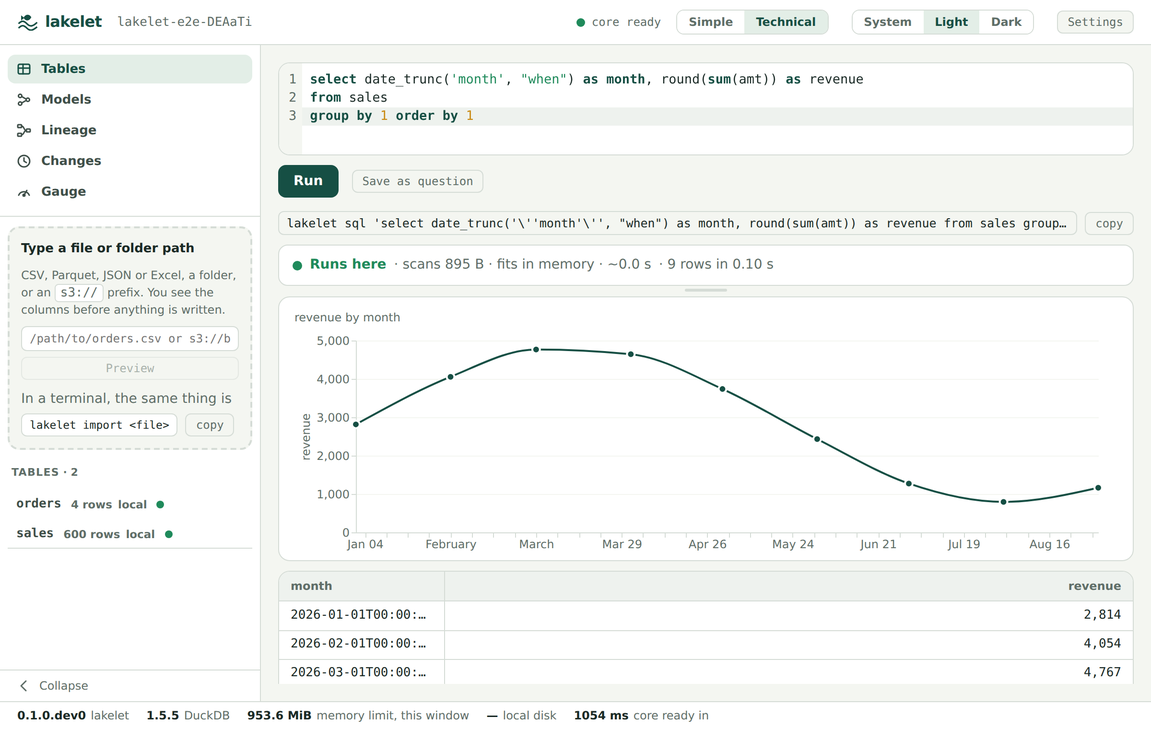
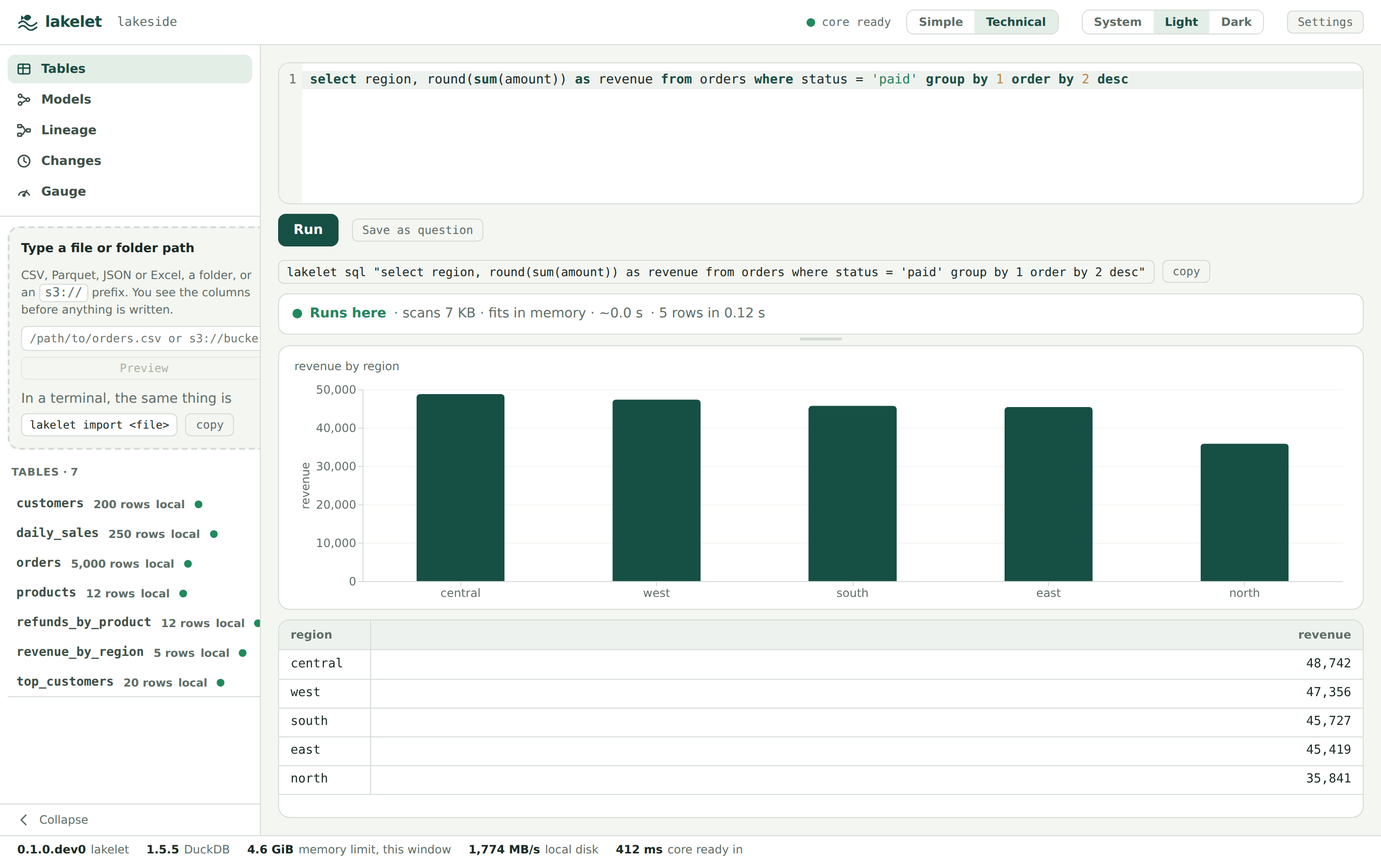
New screenshots for the site, the README and the app guide
Ten captures of the real app in its browser harness against a real core,
on the generated sample data, at 2x: the workspace light and dark, a line
chart, a table detail, Questions with See the answer and the answer,
Models, Lineage, Changes and Gauge. app/scripts/screenshots.mjs is the
recipe. The landing page and the explore/product page use the workspace
capture (the September 16 one is retired), /app has a five-screen gallery,
/docs/app a figure per screen, and the README hero is retaken. Markdown
image paths get the base path like links do.

Also: the grid was one pixel short for a ten-character date and cut it to
an ellipsis; the column padding allows for the border now.

diff --git a/web/src/styles/website.css b/web/src/styles/website.css
@@ -7,6 +7,8 @@
 .website .story-hero{padding-top:85px;padding-bottom:55px}.website .story-hero h1{font-size:clamp(64px,8.4vw,122px);margin:32px 0 40px;max-width:100%}.website .story-hero .hero-location{display:inline-block;color:inherit}.home-intro{display:flex;align-items:center;justify-content:space-between;gap:35px}.home-copy{max-width:660px}.home-copy>p{color:var(--muted);font-size:18px;line-height:1.7}.home-copy .home-foundations{font-size:13px;color:var(--ink);margin-top:20px}.home-intro .small-note{margin-top:14px}.website .scroll-cue{font-size:10px;margin-top:56px}.website .experiment-top h2{font-size:30px;letter-spacing:-1px}.website .experiment-note{font-size:12px;max-width:100%;line-height:1.8}.website .query-choice b{font-size:15px}.website .query-choice small{font-size:12px}.website .experiment-readout{min-width:0}.website .sql-strip{font-size:12px}.website .dataset-tag{font-size:10px}.website .bandwidth-control label{font-size:13px}.website .readout-explanation{font-size:13px}.website .readout-number{font-variant-numeric:tabular-nums}.website .transfer-result>p{font-size:13px}.website .transfer-result output{font-variant-numeric:tabular-nums}
 
 .web-section{padding-top:100px;padding-bottom:100px;border-bottom:1px solid var(--line)}.feature-columns{display:grid;grid-template-columns:repeat(3,minmax(0,1fr));gap:55px}.feature-columns .index{display:block;font:11px var(--mono);letter-spacing:.04em;color:var(--accent);margin-bottom:28px}.feature-columns h3{font-size:26px;font-weight:500;margin-bottom:20px}.feature-columns p{font-size:15px;color:var(--muted);margin-bottom:25px;line-height:1.85}.feature-columns a{margin-top:7px}.app-capture{border:1px solid var(--line);background:var(--panel);border-radius:6px;overflow:hidden}.capture-bar{padding:17px 23px;display:flex;align-items:center;justify-content:space-between;gap:15px;font:10px var(--mono);color:var(--muted)}.capture-bar>span:first-child{display:flex;gap:7px}.capture-bar i{width:7px;height:7px;border-radius:50%;background:var(--muted)}.app-capture img{width:100%;height:auto}.app-capture figcaption{font:11px/1.7 var(--mono);color:var(--muted);padding:18px 23px;border-top:1px solid var(--line)}
+.screen-gallery{display:grid;grid-template-columns:repeat(2,minmax(0,1fr));gap:40px 30px;margin-top:50px}.screen-gallery figure{margin:0}.screen-gallery img{width:100%;height:auto;border:1px solid var(--line);border-radius:6px;background:var(--panel)}.screen-gallery figcaption{font:11px/1.7 var(--mono);color:var(--muted);padding:12px 2px 0}
+.website .body img{display:block;width:100%;height:auto;border:1px solid var(--line);border-radius:6px;background:var(--panel);margin:22px 0 6px}.website .body p>a>img{margin-bottom:0}.website .body img+em,.website .body p>em:only-child{display:block;font:11px/1.7 var(--mono);color:var(--muted)}
 .split-section{display:grid;grid-template-columns:1fr 1.12fr;gap:90px;align-items:start;padding-top:100px;padding-bottom:100px;border-bottom:1px solid var(--line)}.split-section h2{margin:23px 0 27px}.split-section>div>p:not(.eyebrow){font-size:16px;color:var(--muted);max-width:480px;margin-bottom:27px;line-height:1.8}.folder-map{border:1px solid var(--line);background:var(--panel);padding:28px 30px;font:13px var(--mono)}.folder-map>div{display:flex;justify-content:space-between;gap:15px;padding-bottom:25px;color:var(--accent)}.folder-map>div span{font-size:9px;color:var(--muted)}.folder-map ul{list-style:none;padding:0;margin:0}.folder-map li{display:flex;justify-content:space-between;gap:20px;border-top:1px solid var(--line);padding:20px 0;font-size:12px}.folder-map li b{font-weight:400}.folder-map li span{color:var(--muted);text-align:right}.folder-map>p{border-top:1px solid var(--line);padding-top:20px;font:11px/1.8 var(--sans);color:var(--muted)}
 .current-state{padding-top:100px;padding-bottom:100px;border-bottom:1px solid var(--line)}.state-grid{display:grid;grid-template-columns:1fr 1fr;gap:60px}.state-grid h3{font:14px var(--mono);margin:0 0 30px}.state-grid ul{list-style:none;padding:0;margin:0}.state-grid li{border-top:1px solid var(--line);padding:18px 0;font-size:14px;display:flex;align-items:center;justify-content:space-between;gap:20px}.state-grid li a{display:flex;justify-content:space-between;gap:20px;width:100%}.state-grid li small{font:10px var(--mono);color:var(--muted);white-space:nowrap}.state-grid li a>span:last-child{color:var(--accent)}
 .next-step{padding:85px 0 95px;display:flex;align-items:center;justify-content:space-between;gap:40px}.next-step h2{font-size:clamp(35px,4vw,57px);margin:18px 0;color:var(--accent)}.next-step p:not(.eyebrow){font-size:14px;color:var(--muted)}.next-step .button{flex-shrink:0}.web-footer{padding:45px 0 25px;border-top:1px solid var(--line)}.footer-top{display:grid;grid-template-columns:2fr 1fr 1fr;gap:40px;padding:10px 0 55px}.footer-top p{font-size:14px;color:var(--muted);margin-top:24px}.footer-top nav{display:grid;align-content:start;gap:14px;font-size:13px;color:var(--muted)}.footer-bottom{border-top:1px solid var(--line);padding-top:25px;display:flex;justify-content:space-between;gap:20px;font:10px/1.7 var(--mono);color:var(--muted)}
@@ -22,6 +24,6 @@
 @media(min-width:1101px){.docs-menu>summary{display:none}}
 @media(max-width:1200px){.desktop-nav{gap:15px;font-size:12px}.web-header{gap:20px}.feature-columns{gap:30px}.split-section{gap:45px}.price-card{padding:25px}.price-card .eyebrow{font-size:8px}}
 @media(max-width:1100px){.desktop-nav{display:none}.mobile-menu{display:block}.mobile-menu>summary{list-style:none;display:flex;align-items:center;gap:16px;cursor:pointer;padding:13px 0;font-size:13px}.mobile-menu>summary::-webkit-details-marker{display:none}.mobile-menu[open]>summary>span{transform:rotate(45deg)}.mobile-menu nav{position:absolute;left:0;right:0;top:100%;background:var(--term2);box-shadow:0 15px 25px rgba(0,0,0,.2);border:1px solid var(--line);padding:20px;display:grid;grid-template-columns:1fr 1fr;gap:10px 25px}.mobile-menu nav a{padding:12px 6px;font-size:14px}.mobile-menu nav a[aria-current]{color:var(--accent)}.web-header .header-cta{margin-left:auto}.web-header .wordmark{margin-right:0}.intro-bottom{gap:35px}.intro-actions{max-width:270px}.verdict-grid{grid-template-columns:repeat(2,minmax(0,1fr));gap:40px}.verdict-grid h3{min-height:0}.website .docs{grid-template-columns:190px minmax(0,1fr);gap:30px}.website .docs .group a{font-size:12px}.pricing-grid{gap:12px}.price.compact{font-size:34px}}
-@media(max-width:800px){.web-header{min-height:90px}.website .story-hero{padding-top:55px}.website .story-hero h1{font-size:76px;letter-spacing:-4px}.home-intro{align-items:flex-start;flex-direction:column;gap:26px}.home-copy>p{font-size:16px}.website .scroll-cue{margin-top:38px}.feature-columns{grid-template-columns:1fr;gap:40px}.feature-columns article{border-top:1px solid var(--line);padding-top:30px}.feature-columns .index{margin-bottom:20px}.feature-columns h3{font-size:27px}.web-section,.current-state{padding-top:65px;padding-bottom:65px}.split-section{grid-template-columns:1fr;gap:35px;padding-top:65px;padding-bottom:65px}.state-grid{gap:30px}.next-step{align-items:flex-start;flex-direction:column;padding:65px 0;gap:30px}.footer-top{grid-template-columns:1.5fr 1fr 1fr;gap:25px}.footer-bottom{flex-direction:column;gap:12px}.page-intro{padding-top:55px;padding-bottom:55px}.page-intro h1{font-size:67px;letter-spacing:-3px}.intro-bottom{flex-direction:column;align-items:flex-start}.intro-actions{max-width:none}.intro-bottom>p{font-size:16px}.pipeline>div{padding:23px 17px;min-height:165px}.pipeline span{font-size:8px}.pipeline strong{font-size:22px}.pipeline p{font-size:11px}.pipeline{grid-template-columns:1fr 28px 1fr 28px 1fr}.pipeline-foundation{flex-direction:column;align-items:flex-start;gap:15px}.workflow-layers article{padding:25px}.workflow-layers h2{font-size:26px}.workflow-layers p{min-height:125px;font-size:13px}.workflow-layers code{font-size:11px}.agent-surface{grid-template-columns:1fr;gap:40px}.pricing-grid{grid-template-columns:1fr;gap:25px}.price-card{padding:30px}.price-card .eyebrow{font-size:10px}.price{min-height:0}.price.compact{font-size:44px;padding:0}.price-card>p:not(.eyebrow){min-height:0}.price-card h2{margin-top:25px}.website .docs{grid-template-columns:minmax(0,1fr);gap:30px}.website .docs aside{position:static;border-top:1px solid var(--line);border-bottom:1px solid var(--line)}.docs-menu>summary{padding:18px 0}.website .docs nav{display:grid;grid-template-columns:1fr 1fr;gap:15px}.website .docs .group a{display:block;font-size:13px}.website .docs-preview{margin-top:25px;margin-bottom:25px}.website .docs article h1{font-size:44px}}
+@media(max-width:800px){.screen-gallery{grid-template-columns:1fr}.web-header{min-height:90px}.website .story-hero{padding-top:55px}.website .story-hero h1{font-size:76px;letter-spacing:-4px}.home-intro{align-items:flex-start;flex-direction:column;gap:26px}.home-copy>p{font-size:16px}.website .scroll-cue{margin-top:38px}.feature-columns{grid-template-columns:1fr;gap:40px}.feature-columns article{border-top:1px solid var(--line);padding-top:30px}.feature-columns .index{margin-bottom:20px}.feature-columns h3{font-size:27px}.web-section,.current-state{padding-top:65px;padding-bottom:65px}.split-section{grid-template-columns:1fr;gap:35px;padding-top:65px;padding-bottom:65px}.state-grid{gap:30px}.next-step{align-items:flex-start;flex-direction:column;padding:65px 0;gap:30px}.footer-top{grid-template-columns:1.5fr 1fr 1fr;gap:25px}.footer-bottom{flex-direction:column;gap:12px}.page-intro{padding-top:55px;padding-bottom:55px}.page-intro h1{font-size:67px;letter-spacing:-3px}.intro-bottom{flex-direction:column;align-items:flex-start}.intro-actions{max-width:none}.intro-bottom>p{font-size:16px}.pipeline>div{padding:23px 17px;min-height:165px}.pipeline span{font-size:8px}.pipeline strong{font-size:22px}.pipeline p{font-size:11px}.pipeline{grid-template-columns:1fr 28px 1fr 28px 1fr}.pipeline-foundation{flex-direction:column;align-items:flex-start;gap:15px}.workflow-layers article{padding:25px}.workflow-layers h2{font-size:26px}.workflow-layers p{min-height:125px;font-size:13px}.workflow-layers code{font-size:11px}.agent-surface{grid-template-columns:1fr;gap:40px}.pricing-grid{grid-template-columns:1fr;gap:25px}.price-card{padding:30px}.price-card .eyebrow{font-size:10px}.price{min-height:0}.price.compact{font-size:44px;padding:0}.price-card>p:not(.eyebrow){min-height:0}.price-card h2{margin-top:25px}.website .docs{grid-template-columns:minmax(0,1fr);gap:30px}.website .docs aside{position:static;border-top:1px solid var(--line);border-bottom:1px solid var(--line)}.docs-menu>summary{padding:18px 0}.website .docs nav{display:grid;grid-template-columns:1fr 1fr;gap:15px}.website .docs .group a{display:block;font-size:13px}.website .docs-preview{margin-top:25px;margin-bottom:25px}.website .docs article h1{font-size:44px}}
 @media(max-width:520px){.website .section-frame{width:calc(100% - 40px)}.web-header{gap:20px;flex-wrap:wrap;min-height:82px}.web-header .wordmark{font-size:25px;gap:6px}.web-header .wordmark svg{width:28px}.website .header-cta{padding:10px 13px;min-height:37px;font-size:11px;gap:8px}.mobile-menu>summary{font-size:11px;gap:10px}.website .story-hero{padding-top:43px;padding-bottom:40px}.website .story-hero h1{font-size:clamp(44px,13vw,60px);letter-spacing:-.05em;margin-top:28px;margin-bottom:30px}.website .story-hero>.eyebrow{font-size:9px;max-width:310px}.home-copy>p{font-size:15px}.desktop-break{display:none}.website .scroll-cue{font-size:8px;gap:20px}.website .experiment{padding:23px 18px}.website .experiment-top h2{font-size:25px}.website .experiment-note{font-size:11px}.website .experiment-top .eyebrow{font-size:9px}.website .dataset-tag{font-size:8px}.website .query-choice b{font-size:13px}.website .query-choice small{font-size:11px}.website .section-heading{margin-bottom:30px;gap:25px}.website .section-heading h2,.website h2{font-size:36px;letter-spacing:-1.5px}.website .section-heading>p{font-size:14px}.web-section,.current-state{padding-top:55px;padding-bottom:55px}.feature-columns p{font-size:14px}.capture-bar{font-size:8px;padding:13px 12px}.capture-bar>span:last-child{display:none}.app-capture figcaption{font-size:10px;padding:14px}.split-section{padding-top:55px;padding-bottom:55px}.split-section>div>p:not(.eyebrow){font-size:15px}.folder-map{padding:23px 19px}.folder-map li{font-size:10px;gap:12px}.folder-map>div{font-size:12px}.folder-map>div span{font-size:7px}.state-grid{grid-template-columns:1fr;gap:35px}.state-grid li{font-size:13px}.state-grid li small{font-size:9px}.footer-top{grid-template-columns:1fr 1fr;gap:35px 25px;padding-bottom:40px}.footer-top>div{grid-column:1/-1}.footer-top nav{font-size:12px}.footer-bottom{font-size:9px}.page-intro{padding-top:43px;padding-bottom:40px}.page-intro h1{font-size:49px;letter-spacing:-2.5px;margin:25px 0 28px;overflow-wrap:anywhere}.intro-bottom>p{font-size:15px}.intro-bottom{gap:27px}.step-list article{grid-template-columns:24px 1fr;gap:15px;padding:27px 0}.step-list article>a{grid-column:2;text-align:left}.step-list h3{font-size:24px}.step-list p{font-size:14px}.key-list{padding:6px 18px 22px}.key-list>div{font-size:12px;gap:12px}.key-list kbd{font-size:10px;padding:7px}.pipeline{grid-template-columns:1fr;gap:8px}.pipeline>b{transform:rotate(90deg);font-size:22px}.pipeline>div{min-height:0;padding:25px}.pipeline strong{font-size:29px;margin:15px 0 10px}.pipeline span{font-size:10px}.pipeline p{font-size:12px}.pipeline-foundation{padding:22px}.verdict-grid{grid-template-columns:1fr;gap:32px}.verdict-grid h3{margin:15px 0 12px;font-size:25px}.verdict-grid article>span{font-size:11px}.web-accordions summary{font-size:15px}.notice-band{padding:28px 25px;margin-top:45px;margin-bottom:20px}.notice-band h3{font-size:25px}.notice-band>p:not(.eyebrow){font-size:14px}.workflow-layers{grid-template-columns:1fr}.workflow-layers article{border-right:0;border-bottom:1px solid var(--line);padding:30px}.workflow-layers h2{font-size:31px;margin-top:26px}.workflow-layers p{min-height:0;font-size:14px}.workflow-layers code{font-size:13px;margin-top:25px}.code-window pre{font-size:11px;padding:20px 18px}.code-window>div{font-size:8px;padding:16px 18px}.code-window>a{font-size:11px;padding:18px}.agent-explainer h2{font-size:35px}.price-card{padding:28px}.updates-section{padding:60px 0}.website .docs article h1{font-size:36px;letter-spacing:-1.5px;overflow-wrap:anywhere}.website .docs article .lede{font-size:15px}.website .docs .body{font-size:15px}.website .body h2{font-size:27px;letter-spacing:-.8px}.website .body pre{padding:17px;font-size:11px}.website .docs nav{grid-template-columns:1fr}.website .docs .pager{grid-template-columns:1fr 1fr;gap:20px;font-size:11px}.website .docs .pager .edit{grid-row:2;grid-column:1/-1}.website .docs-preview{font-size:12px}}
 @media(prefers-reduced-motion:reduce){.website,.website *{scroll-behavior:auto!important;transition:none!important}}

diff --git a/app/src/components/Grid.test.tsx b/app/src/components/Grid.test.tsx
@@ -24,8 +24,10 @@ describe('the grid', () => {
 
   it('sizes a column to the longest of its header and its cells, between a floor and a cap', () => {
     const [name, revenue] = columnWidths(columns, rows);
-    expect(name).toBe(Math.ceil('a much longer customer name here'.length * 7.8) + 24);
+    expect(name).toBe(Math.ceil('a much longer customer name here'.length * 7.8) + 28);
     expect(revenue).toBe(96); // "1,234.50" and "revenue" are short: the floor
+    // a date is ten characters; its column shows all ten (it was one pixel short once)
+    expect(columnWidths([{ name: 'day', type: 'Date32' }], [['2026-01-04']])[0]).toBeGreaterThanOrEqual(Math.ceil(10 * 7.83) + 24 + 1);
     expect(columnWidths([{ name: 'x', type: 'Utf8' }], [['y'.repeat(500)]])[0]).toBe(480);
     expect(template([100, 96])).toBe('100px minmax(96px, 1fr)');
   });

diff --git a/app/src/components/Grid.tsx b/app/src/components/Grid.tsx
@@ -31,7 +31,7 @@ const numeric = (type: string) => /^(Int|Uint|Float|Decimal)/.test(type);
  *  header instead of at the far right. The last column takes what is left. */
 export const SAMPLE = 200;
 const CHAR = 7.8; // 13px monospace
-const PAD = 24;
+const PAD = 28; // 12px padding each side, the 1px border, and a little slack: a ten-character date was one pixel short and showed an ellipsis
 export function columnWidths(columns: Column[], rows: Row[]): number[] {
   return columns.map((c, i) => {
     let longest = c.name.length;

diff --git a/web/tests/test_website.py b/web/tests/test_website.py
@@ -100,10 +100,17 @@ def test_signup_has_a_real_endpoint_or_a_useful_fallback():
 def test_screenshot_and_recovery_documentation_are_present():
     for route in ["index", "app"]:
         page = Page(DIST / f"{route}.html")
-        capture = next(i for i in page.elements("img") if "query.png" in i["src"])
+        capture = next(i for i in page.elements("img") if "screenshots/workspace.png" in i["src"])
         assert "generated" in capture["alt"]
         assert "browser test harness" in text(route)
         assert built_file(capture["src"]).stat().st_size > 10000
+    # the /app gallery and the app guide show every screen, from the same captures, under the base path
+    gallery = [i["src"] for i in Page(DIST / "app.html").elements("img") if "/screenshots/" in i["src"]]
+    assert len(gallery) == 5 and all(src.startswith(f"{BASE}/screenshots/") for src in gallery)
+    guide = [i["src"] for i in Page(DIST / "docs" / "app.html").elements("img") if "/screenshots/" in i["src"]]
+    assert len(guide) == 10 and all(src.startswith(f"{BASE}/screenshots/") for src in guide)
+    for src in set(gallery + guide):
+        assert built_file(src).stat().st_size > 10000, src
     assert "project folder" in text("docs/recovery")
     assert "Not estimated" in text("docs/gauge")
     assert any(a.get("href") == f"{BASE}/docs/recovery" for a in Page(DIST / "docs.html").elements("a"))

diff --git a/web/src/content/docs/app.md b/web/src/content/docs/app.md
@@ -30,6 +30,9 @@ The dot in the bar is the core's state: amber while it starts, green when `/api/
 
 With a project open the window is the bar, a sidebar, the screen, and a status strip. The bar has the project's name, the core's dot, **Open…**, the **Simple | Technical** and **System | Light | Dark** switches and **Settings**. The sidebar has the five screens — **Tables**, **Models**, **Lineage**, **Changes**, **Gauge** (⌘/Ctrl+1 to 5; Simple mode says **Questions**, **Map** and **Recent**) — and under them the explorer: the drop zone with **Import…**, then every table and view in the catalog with its rows, where its data is and a freshness dot (green when it was written today, amber this week, grey before that; hover for the time). The explorer is there on every screen, so a table is one click away from anywhere; clicking one opens its detail on the Tables screen. Its right edge drags to the width you want (← and → move it too), and the **Collapse** button at the bottom folds it to icons; both are remembered. The strip along the bottom shows the core's version, DuckDB's, this window's memory limit, the local disk figure and how long the core took to be ready.
 
+[![The window: the bar, the sidebar with the five screens and the explorer, the workspace with SQL over the verdict, the chart and the rows, and the status strip](/screenshots/workspace.png)](/screenshots/workspace.png)
+*The window on the generated sample data: a two-column answer gets a chart. Every screenshot on this page is the real app in its browser harness against a real core, unedited.*
+
 ## The Tables screen: the workspace
 
 The Tables screen is one workspace, two panes with a draggable split (the ↑ and ↓ keys move it too; where you leave it is remembered): the SQL box above with the verdict line under it, the results below. The results pane is where a table's detail or a file's preview opens when the explorer starts one, so "click a table, read its detail, run a query against it" happens on one screen without a scroll; **Run** puts the rows back in their place.
@@ -42,11 +45,17 @@ An `s3://bucket/prefix/` of Parquet typed into the same box is attached rather t
 
 Clicking a table in the explorer opens its detail in the results pane, which is `lakelet tables describe <name>` as a panel: the columns with their Iceberg types, where the data is, partitioning, the format version, every snapshot newest first (when, the operation, rows and files added, rows after, which is current and which the retention would expire), and the line saying what `expire` would reclaim. **Sample rows** is `lakelet tables sample`, **Expire snapshots** is `lakelet tables expire` and shows its report (snapshots and files removed, bytes reclaimed); an attached table has **Refresh** instead, because its files are not Lakelet's to delete. A table built here also has **Publish to a bucket…** (`lakelet tables publish`): type an `s3://bucket/prefix`, **Weigh it** counts the files and says how long the copy would take at the measured bandwidth (`--dry-run`), **Publish** moves the table there with every snapshot, and a copy longer than the Yellow cap is refused with **Publish anyway** (`--yes`) beside the refusal; afterwards the explorer says **bucket**, the detail names the location, and a line counts the local files left for `expire`. Row counts everywhere take position deletes off, so a table rebuilt by delete-then-insert (the dbt path) shows the rows it has, not the rows its files hold.
 
+[![A table's detail in the results pane: where it is, partitioning, last written, format, what reads it and what it feeds, the recent changes, and the columns](/screenshots/detail.png)](/screenshots/detail.png)
+*`orders` in the results pane: `lakelet tables describe orders` as a panel, with the models it feeds as links.*
+
 A view (a dbt `view` model built with `lakelet run`, or a view put in the catalog directly) is listed beside the tables and has its own detail: its query, its columns, how many versions it has and when this one was recorded, which dbt model it came from with the `lakelet run <model>` line that rewrites it, and **Sample rows**. It has no snapshots and nothing to expire, because nothing is stored for it; the rows are computed from its query each time it is asked.
 
 ### SQL, the verdict, the rows
 
 Once the project has a table, the SQL box is the top pane, with the tables and columns for completion. ⌘/Ctrl+Enter runs (or the Run button). The verdict comes back before any row, from the response headers, as the gauge line: Green "Runs here", Yellow "Runs here, slowly", Red "Needs more machine", with the sentence (what it scans, whether it fits in memory, how long). Red is a refusal until **Run anyway**, which is `lakelet sql '…' --run-anyway`. Rows stream into the grid as the core produces them, one 1,000-row batch at a time from the first; the first rows are on screen before the query completes, and the grid keeps 100,000 rows before it says so and names `lakelet sql --format parquet` for the rest. Esc stops a running query wherever the focus is; the core stops the statement at once and history records the run as stopped early.
+
+[![A date and a numeric column, charted as a line over the rows](/screenshots/workspace-line.png)](/screenshots/workspace-line.png)
+*A date and a number: the chart is a line. The line beside Run is the same query as `lakelet sql`.*
 
 A result of exactly two columns, one categorical and one numeric, draws a bar chart above the grid in the results pane, in the rows' order; a date or timestamp and a numeric draws a line; anything else draws nothing. The chart comes from the first 5,000 rows and has at most 40 bars.
 
@@ -58,11 +67,17 @@ Dates, timestamps, times and decimals show as dates, timestamps, times and numbe
 
 **System | Light | Dark** at the right of the bar. The palette is the site's, from one file (`web/src/styles/palette.css`) both read: the deep green on light surfaces, the lime on dark, and the same three verdict colours in either. System is the default and follows the machine, changing with it; Light and Dark override it for that window and are remembered. The switch is there before a project is open, so a dark desktop can be matched at the welcome screen.
 
+[![The same workspace in the dark theme](/screenshots/workspace-dark.png)](/screenshots/workspace-dark.png)
+*The dark theme; the verdicts keep their hues.*
+
 The palette is the site's tokens with a dark set over them, so every screen, the SQL editor and the charts move together; the verdict colours keep their hues in both, because Green, Yellow and Red are the gauge's vocabulary and have to stay recognisable.
 
 ## The Models screen
 
 **Models** in the sidebar is the project's dbt DAG through the gauge, screen 7 of the mockups: `lakelet run --plan` as a panel. The list has every model in dependency order with its kind (`view` or `table`), its state (`fresh`, `edited`, `upstream`, `never`; [the dbt page](/docs/dbt) says what each means), the verdict coloured, the estimate and what it scans, and its last run; the line beside the summary is `lakelet run`. Clicking a model shows its state with why and what changed (the diff of its SQL since the last run, folded to the changed lines with a **whole SQL** toggle, or the commits to the table it reads since; a model it blames is a link), the verdict's sentence, **Reads from** and **Feeds** — table-level [lineage](/docs/tables#lineage), each name a link to that detail, on the Tables screen when it is an imported table or a view put by hand — its tests from `schema.yml` (`not_null(id)`, `unique(id)`, a singular test by its name), its description and file, its compiled SQL, and its last `lakelet run` from history (when, how long, or that it failed). **Run all** is `lakelet run`; **Run this** is `lakelet run <model>`; **Run what changed (n)** is `lakelet run --stale`, lit when anything is not fresh. When anything is, a **Review** section above the DAG lists every out-of-date model in the order the run would build them, each with its reason and its diff or commits, to read through first. A Red model makes the run refuse the whole DAG, as the CLI does, until **Run anyway** (`--run-anyway`). After a run the notice says how many models built in how long and which views landed in the catalog, or that every model was up to date and nothing ran; the explorer and the Gauge screen's run list have the result at once. A `view` model is an Iceberg view in the catalog only when built this way; the reason is on [the dbt page](/docs/dbt).
+
+[![The Models screen in Technical mode: the DAG on the left, a model's detail with its state, verdict, lineage, tests, compiled SQL and versions on the right](/screenshots/models.png)](/screenshots/models.png)
+*Technical mode: a model's detail with its versions. In Simple mode the same models are question cards with **See the answer**.*
 
 The table and view details on the Tables screen carry the same **Reads from** and **Feeds** lines after their facts, and a model not built yet is a link back to the Models screen with it selected.
 
@@ -72,17 +87,32 @@ The plan compiles the project with dbt each time the screen opens, so it takes a
 
 **Lineage** in the sidebar (Simple: **Map**) is `lakelet lineage --all` drawn: every table, view and model as a node in layers left to right — what reads nothing at the left, each node one layer after the deepest thing it reads — and every edge as lineage knows it (a `ref()` in blue, a `source()` or a table named in the SQL in grey, a catalog view's SQL dashed; hover says which). A model is coloured by its state: green-edged when fresh, amber when edited or an input changed, dashed grey when never built; the header counts what is out of date. Clicking a node opens its detail — a model on the Models screen with it selected, a table or a view on the Tables screen. The layout is the app's own (a longest-path layering and rows by what each node reads), drawn as SVG in the theme's colours; a project's graph is tens of nodes, so no graph library is carried.
 
+[![The Lineage screen: tables on the left, the models that read them on the right](/screenshots/lineage.png)](/screenshots/lineage.png)
+*Four imported tables and the three models over them, all fresh.*
+
 ## The Changes screen
 
 **Changes** in the sidebar (Simple: **Recent**) is `lakelet changes` as a list: everything that happened to the project, newest first — a table's snapshot ("orders: append +1,200 rows · made out of date: stg"), a model's or question's last run ("by_customer built in 1.2 s, Green"), a version ("save question: Revenue by customer · Ada Lovelace") — each with when, which source it came from, and a link that opens the table's detail or the model on the Models screen. The **Name** box is the CLI's argument: type a table, view, model or question and the list is only what happened to it, and the line beside it is the command. Simple mode says the same in its words ("orders: 1,200 rows added · 1 question needs refreshing: stg", "by_customer refreshed in 1.2 s", "Revenue by customer saved, a new version"). Every table, view and model detail has a **Recent** strip — its own last five entries — with **All changes** opening this screen filtered to it. Nothing is recorded for the screen: it is read from the catalog, history and git, so it is always what the CLI would print.
+
+[![The Changes screen: runs, snapshots and versions, newest first](/screenshots/changes.png)](/screenshots/changes.png)
+*Runs, snapshots and saved versions in one list; each entry opens its detail.*
 
 ## Simple and Technical
 
 The **Simple | Technical** switch at the right of the bar is screen 8: the same project in two vocabularies, remembered per window. Technical is everything above: model, test, view, the verdict by colour, the command line beside every button. Simple renames the Models screen **Questions** and shows the DAG as cards: a `view` model is a question *answered live*, a `table` model is *saved as a table*; each card has when it was last refreshed, whether it is up to date as a sentence ("Up to date.", "Changed since it was last refreshed.", "Out of date: orders changed 2 h ago.", "Never refreshed.") with the same diff or commits under it, the wait as a sentence ("Ready in about 2 s", "Takes a while: about 4 min", "Too big for this machine right now") instead of a colour, its checks in words (`not_null` on `id` is "id is never empty", `unique` is "id is never repeated", `accepted_values` is "one of the allowed values"), **See the answer** and **Refresh**; the top has **Refresh all** and **Refresh what changed**. **See the answer** is the Tables screen with `select * from <question>` in the box and run — the verdict line, the chart when the answer is two columns, every row in the grid, and `lakelet sql '…'` beside it — and the box is yours to edit from there; a question never refreshed says **Refresh, then see the answer** and does both. The Technical model detail has the same button as **Rows**. The command lines stay, because Simple hides vocabulary, not what the app does. The view detail follows the switch too. The mapping between the two is one small table in the app, pinned by a test, so both screens say the same words.
 
+[![The Questions screen in Simple mode: three cards, each with See the answer, Refresh and History](/screenshots/questions.png)](/screenshots/questions.png)
+*Simple mode: a question is asked and answered in one click.*
+
+[![The answer: the workspace with select star from revenue_by_region run, the verdict, the chart and the rows](/screenshots/answer.png)](/screenshots/answer.png)
+*What **See the answer** opens: the rows, with the SQL there to edit into the next question.*
+
 ## The Gauge screen
 
 **Gauge** in the sidebar is the gauge's record, screen 5 of the mockups: this machine's line (RAM, threads, the memory limit, the disk figure, the bandwidth when a bucket has been read), three tiles (runs recorded; the share of completed local runs within 2× of their estimate on time; Green runs that took over three minutes), an estimate-versus-actual scatter on log axes with the diagonal of a perfect estimate and the verdict colouring each point, the run list (when, verdict, where it ran, estimate, actual, bytes scanned; a failed run says so, without its text), and what the gauge has learned on this machine, which is nothing until the correction factors ship. Four buttons are four verbs: `lakelet gauge history` at the top, **Export history** (`lakelet gauge export`: a file in the project, nothing sent; see [the gauge](/docs/gauge)), **Probe the disk again** (`lakelet gauge probe`), and **Reset** (`lakelet gauge reset`, which asks first).
+
+[![The Gauge screen: the machine's line, three figures, the estimate-versus-actual scatter and the run log](/screenshots/gauge.png)](/screenshots/gauge.png)
+*Estimate against actual on this machine, and the runs it learned from.*
 
 ## Settings
 

diff --git a/build-sessions/lakelet-build-sessions_092026.md b/build-sessions/lakelet-build-sessions_092026.md
@@ -110,6 +110,10 @@ The app: `session.ts` gains `awsProfiles`, `projectProfile`, `setProjectProfile`
 
 C3 is a deferral: when Hants ticks it, the ship brief's open list gets "keys for people without the AWS CLI: the shell stores a pair in the OS keychain and injects it", to be decided after the first outsiders say whether `aws configure` was a wall.
 
-## 15. Open
+## 15. New screenshots for the landing page, the README, `/app` and `/docs/app` (2026-09-22; `app/scripts/screenshots.mjs`, `web/public/screenshots/`)
+
+Hants: take new screenshots of the working app and put them in the docs and the landing page. The September 16 capture on the landing page predated the sidebar. The captures are the real React app in its browser harness against a real `lakelet serve` (the same page the Tauri window loads), at 2x, on the generated sample shop data with three saved questions; nothing mocked, nothing edited, the git author set to Hants. `app/scripts/screenshots.mjs` is the recipe — one command after a UI change — and `web/public/screenshots/README.md` says what each of the ten images shows. Two things the capture found: the grid cut a ten-character date to `2026-01-…` (the column was one pixel short: 12 px padding each side plus the 1 px border; `PAD` is 28 now, pinned in `Grid.test.tsx`), and the page's key hints read the platform, so the script tells the page it is a Mac (⌘, not Ctrl+). The welcome screen and the New project dialog were captured too but not used: in a browser they say "the app chooses a folder; a browser cannot" and have no profile picker, so those two want the Mac window. Placed: the landing page's workspace section and the `explore/product` page (the old `exploration/query.png` and its README removed), the README hero (`docs/screenshots/query-verdict.png`, retaken, with a caption), a five-image gallery on `/app`, ten figures in `/docs/app` under the sections they belong to (the markdown image `src` is now prefixed with the base path like links are, in `astro.config.mjs`). PNGs are 256-colour quantised, 100–180 KB each at 2880×1800. `test_website.py` checks the landing and `/app` capture, the gallery's five and the guide's ten, all under the base path and all real files. Site **66**, Vitest **125**, tsc.
+
+## 16. Open
 
 C1–C3 ticked Agree by Hants the same evening; C3's line is in `ship-v0-plan.md` §7. A retention or a switch for history's per-run rows, if they ever weigh (Hants: "we can modify the rules later") — in `TASKS.md`. Ship stays held. P2 waits for the ship brief to run. All five agreed items of `decisions-for-review_092026.md` are built; the Mac run of P1 needs `tauri dev`, because the folder is the shell's to make.

diff --git a/web/public/screenshots/README.md b/web/public/screenshots/README.md
@@ -1,0 +1,24 @@
+# Screenshots
+
+Unedited captures of the real Lakelet React application in its browser test harness — the
+same page the desktop window loads — backed by a real `lakelet serve`, at 2x. Nothing is
+mocked: the rows, the verdict and the chart are the core's answers. Taken September 22,
+2026 with `app/scripts/screenshots.mjs`, which is the whole recipe; run it again after a
+UI change.
+
+Only generated data from `examples/sample-data/make_sample.py` is shown: 5,000 orders for
+a fictional lakeside shop, three saved questions over them. No real records, storage
+credentials or sidecar tokens appear. The sample CSVs and the throwaway project stay
+outside the repository. The timings describe those runs only.
+
+| file | what it shows |
+|---|---|
+| `workspace.png`, `workspace-dark.png` | the Tables screen: SQL over the verdict, the chart and the rows; light and dark |
+| `workspace-line.png` | a two-column date answer, charted as a line |
+| `detail.png` | a table's detail in the results pane (columns, snapshots, what it feeds) |
+| `questions.png` | the Questions screen in Simple mode, with **See the answer** |
+| `answer.png` | a question's answer: `select * from revenue_by_region`, run |
+| `models.png` | the Models screen in Technical mode, a model's detail with its versions |
+| `lineage.png` | the Lineage screen |
+| `changes.png` | the Changes screen |
+| `gauge.png` | the Gauge screen: estimate against actual on this machine |

diff --git a/README.md b/README.md
@@ -6,6 +6,8 @@ Developer preview, macOS and Linux, from source. Apache 2.0. Site and docs: **ht
 
 ![The window: the sidebar with the table explorer, the SQL box over the results, the verdict and the sentence before the rows, then the chart and the grid](docs/screenshots/query-verdict.png)
 
+*The real app in its browser harness on generated sample data, September 22, 2026; [more screens on the site](https://hantswilliams.github.io/lakelet/app/) and in [the app guide](https://hantswilliams.github.io/lakelet/docs/app/).*
+
 ## What it is
 
 You point Lakelet at a folder. `lakelet init` makes it a lakehouse: an Iceberg catalog in SQLite, a `warehouse/` for the tables, a dbt project for the questions you save, and a git repository so every save is a version. You import CSV, Parquet, JSON or Excel and get Iceberg tables; you attach Parquet already in a bucket without copying it; you write SQL and, before a row comes back, the gauge tells you **Runs here**, **Runs here, slowly**, or **Needs more machine** — with the bytes it will scan and the seconds it expects, from the table statistics, not from running it. Red refuses until you say run anyway. A query you want to keep becomes a dbt model with two checks and a version, in one command or one click. The desktop app is the same core with screens; the CLI can do everything the app can.

diff --git a/build-sessions/TASKS.md b/build-sessions/TASKS.md
@@ -185,6 +185,7 @@ Closed:
 
 - [x] `PUBLIC_WAITLIST_URL`: Formspree, set as a repository variable; the deployed page carries the endpoint (confirmed 2026-09-16).
 - [ ] Domain: when bought, add under Settings → Pages and set `SITE_URL`.
+- [x] Screenshots (2026-09-22): `app/scripts/screenshots.mjs` retakes every capture on the landing page, `/app`, `/docs/app` and the README from the browser harness; the welcome screen and New project dialog still want a Mac capture (log §15).
 - [ ] Docs follow-ups: a CI check that `gen-cli-reference.py` is current; the quickstart transcripts are illustrative until the clean-machine run replaces them; a page on `audit network` and one on history's schema.
 - [x] `/docs/app` (2026-09-11), and the overview's status table names the app.
 - [ ] The medallion page's `[burst.tags.<tag>]` caps and `[schedules.nightly]` are not in the architecture spec; decide whether to adopt.

diff --git a/app/README.md b/app/README.md
@@ -33,3 +33,8 @@ button. Every action shows the `lakelet` line it is, with a copy button
 Tests: `cargo test` in `src-tauri/` (the supervisor, projects and windows against a fake
 sidecar), `npm test` (Vitest, the screens and the command lines), `npm run e2e` (Playwright
 against real `lakelet serve`s; needs `LAKELET_SIDECAR` or `../core/.venv`).
+
+Screenshots for the README, the site and `/docs/app` come from `scripts/screenshots.mjs`:
+the real app in the browser harness against a real core on the generated sample data, at
+2x; the recipe is at the top of the file and `web/public/screenshots/README.md` says what
+each image shows.
